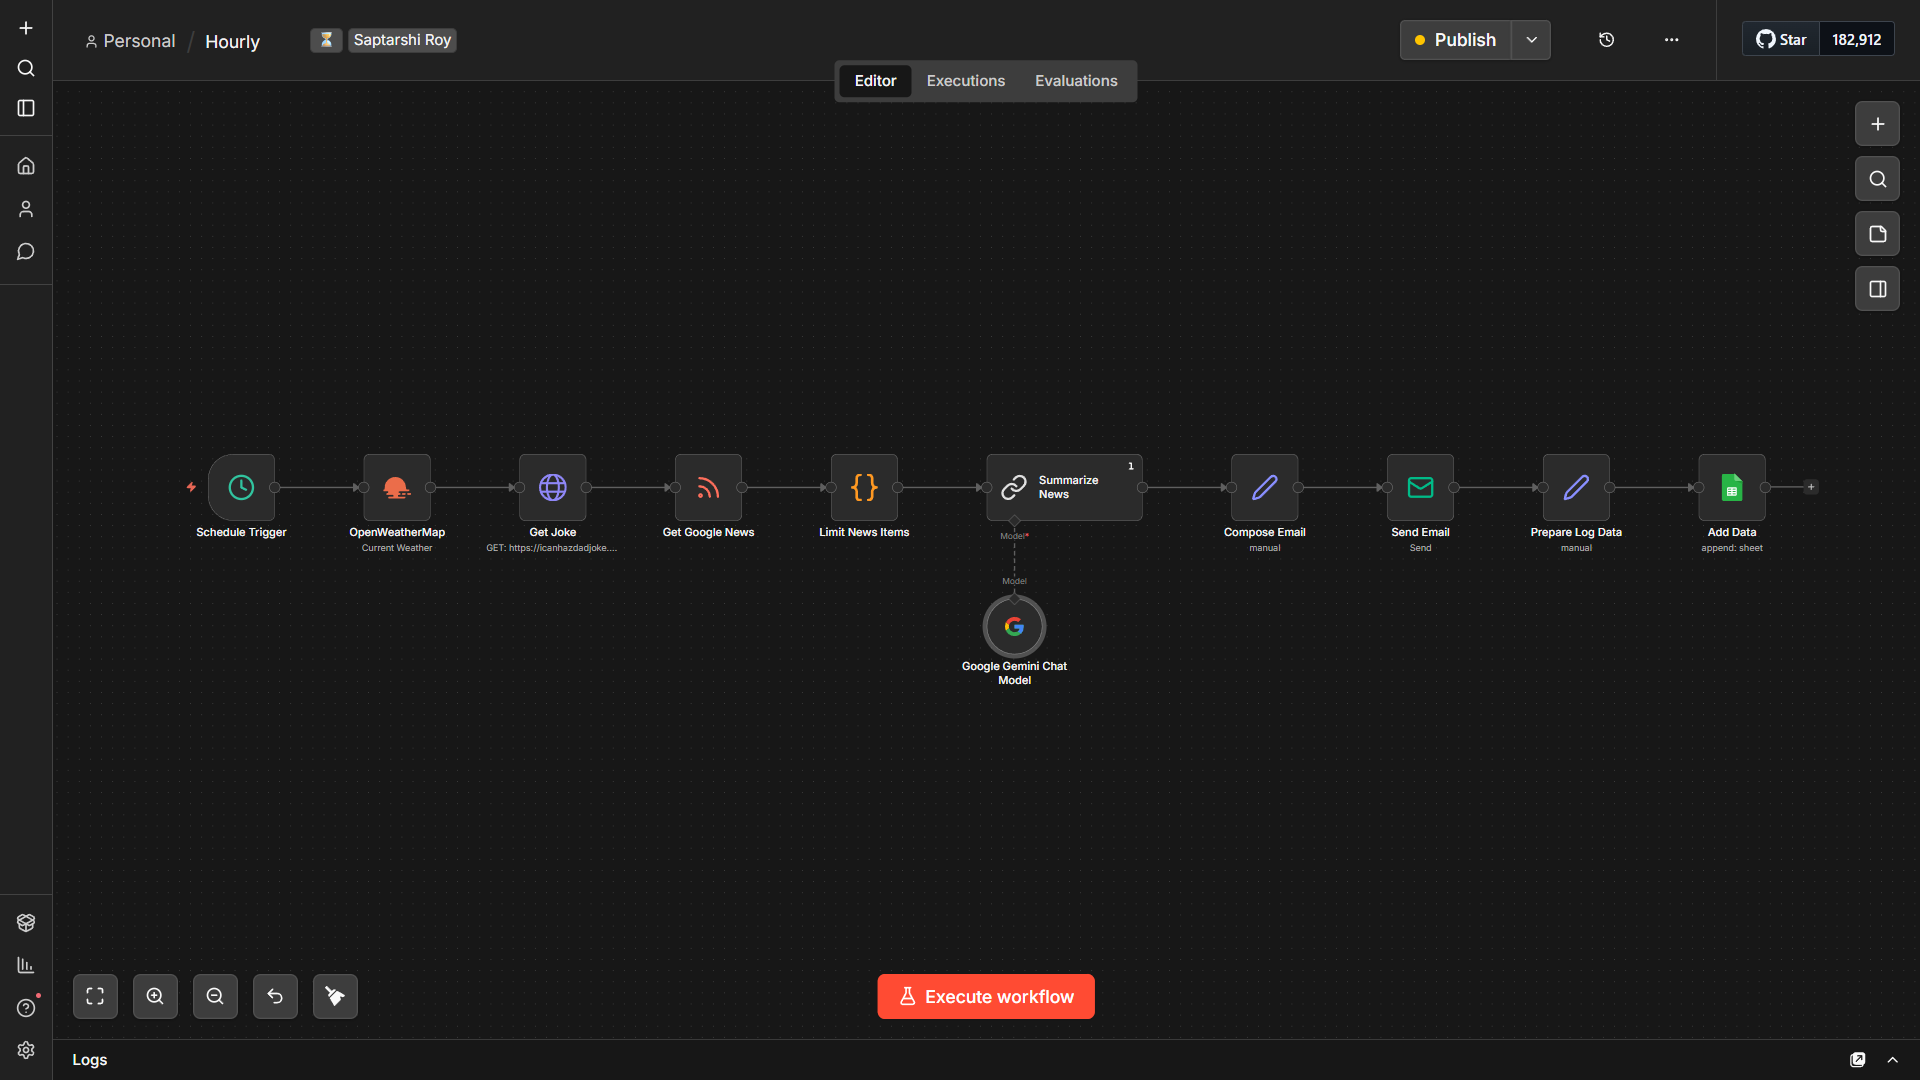
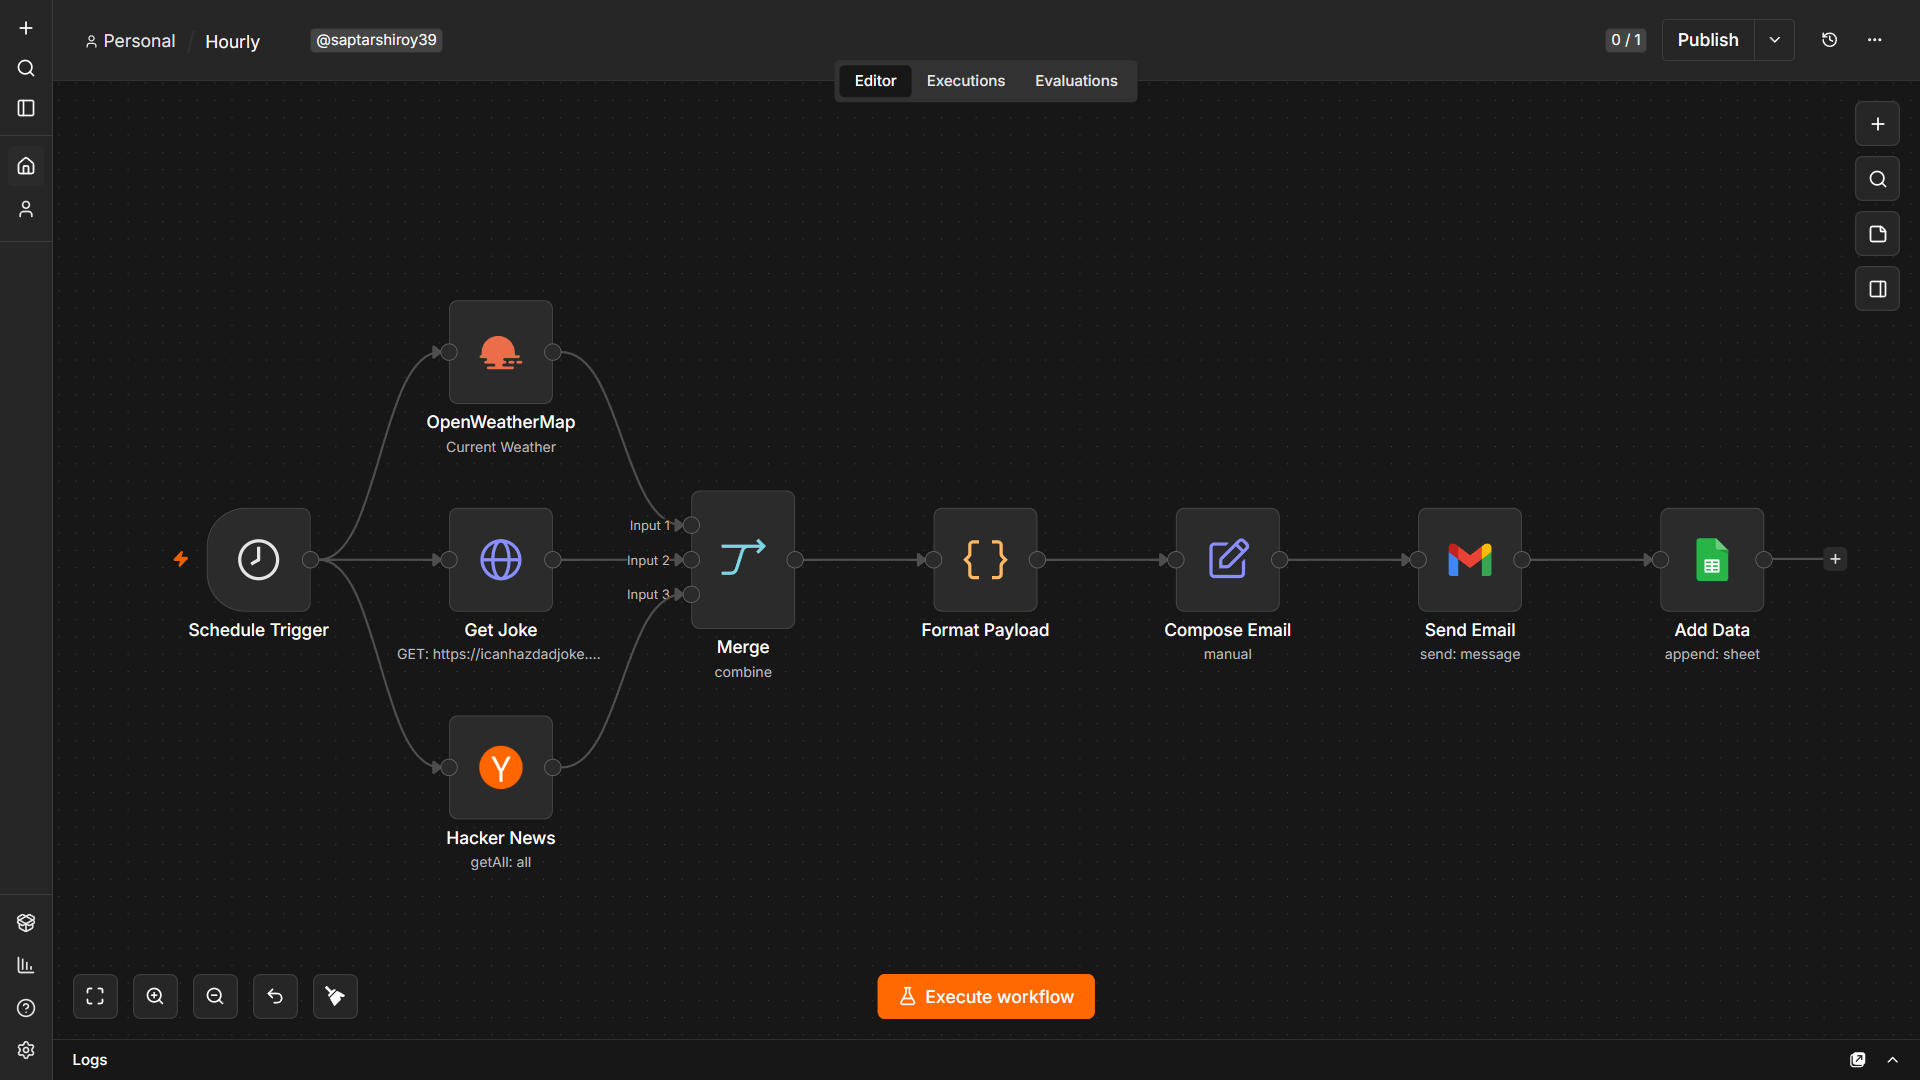
Update Workflow

diff --git a/README.md b/README.md
@@ -5,7 +5,7 @@
 </h1>
 
 <p align="center">
-  <a href="https://github.com/saptarshiroy39/Hourly"><b>Hourly</b></a> is an intelligent email digest system built with <a href="https://n8n.io"><b>n8n</b></a> that automatically compiles and delivers personalized hourly updates straight to your inbox. Stay informed with real-time weather, entertainment, and AI-curated news - all in one beautifully formatted email.
+  <a href="https://github.com/saptarshiroy39/Hourly"><b>Hourly</b></a> is an automated email digest system built with <a href="https://n8n.io"><b>n8n</b></a> that automatically compiles and delivers personalized hourly updates straight to your inbox. Stay informed with real-time weather, humor, and top industry news - all in one beautifully formatted email.
 </p>
 
 ---
@@ -16,8 +16,8 @@
 | -------------------------------- | ---------------------------------------------------- | --------------------------------------------- |
 | 🌦 **Real-time Weather Updates** | Current conditions, temperature, humidity, and more  | **_OpenWeatherMap API_**                      |
 | 😂 **Hourly Humor**              | A fresh random joke to brighten your hour            | **_icanhazdadjoke API_**                      |
-| 📰 **AI-Summarized Tech News**   | Top 10 technology headlines intelligently summarized | **_Google News RSS_**, **_Gemini 2.5 Flash_** |
-| 📧 **Automated Email Delivery**  | Sends a beautifully formatted HTML email every hour  | **_Gmail SMTP_**                              |
+| 📰 **Top Industry News**         | Top 5 Hacker News headlines with author details      | **_Hacker News API_**                         |
+| 📧 **Automated Email Delivery**  | Sends a beautifully formatted HTML email every hour  | **_Gmail API_**                               |
 | 📗 **Activity Logging**          | Tracks all digest activities with timestamps         | **_Google Sheets_**                           |
 
 ---
@@ -37,13 +37,12 @@ Here is a visual overview of the n8n workflow:
 | 1⃣  | **Schedule Trigger** | Runs every hour automatically                      | **_n8n Schedule Trigger_** |
 | 2⃣  | **OpenWeatherMap**   | Fetches current weather data for your location     | **_OpenWeatherMap API_**   |
 | 3⃣  | **Get Joke**         | Retrieves a random dad joke via HTTP request       | **_icanhazdadjoke API_**   |
-| 4⃣  | **Get Google News**  | Pulls latest tech news from Google News feed       | **_Google News RSS_**      |
-| 5⃣  | **Limit News Items** | Filters top 10 news articles                       | **_JavaScript Code_**      |
-| 6⃣  | **Summarize News**   | Uses Google Gemini to create an AI-powered summary | **_Google Gemini_**        |
-| 7⃣  | **Compose Email**    | Formats all data into a clean HTML email           | **_n8n Set Node_**         |
-| 8⃣  | **Send Email**       | Delivers the digest via Gmail SMTP                 | **_Gmail SMTP_**           |
-| 9⃣  | **Prepare Log Data** | Prepares activity log entry                        | **_n8n Set Node_**         |
-| 🔟  | **Add Data**         | Logs the activity to Google Sheets                 | **_Google Sheets API_**    |
+| 4⃣  | **Hacker News**      | Fetches top 5 trending tech articles               | **_Hacker News API_**      |
+| 5⃣  | **Merge**            | Combines data streams from weather, joke, and news | **_n8n Merge Node_**       |
+| 6⃣  | **Format Payload**   | Processes and structures all fetched data          | **_JavaScript Code_**      |
+| 7⃣  | **Compose Email**    | Formats all data into a clean HTML email template  | **_n8n Set Node_**         |
+| 8⃣  | **Send Email**       | Delivers the digest via Gmail                      | **_Gmail API_**            |
+| 9⃣  | **Add Data**         | Logs the activity to Google Sheets                 | **_Google Sheets API_**    |
 
 ---
 
